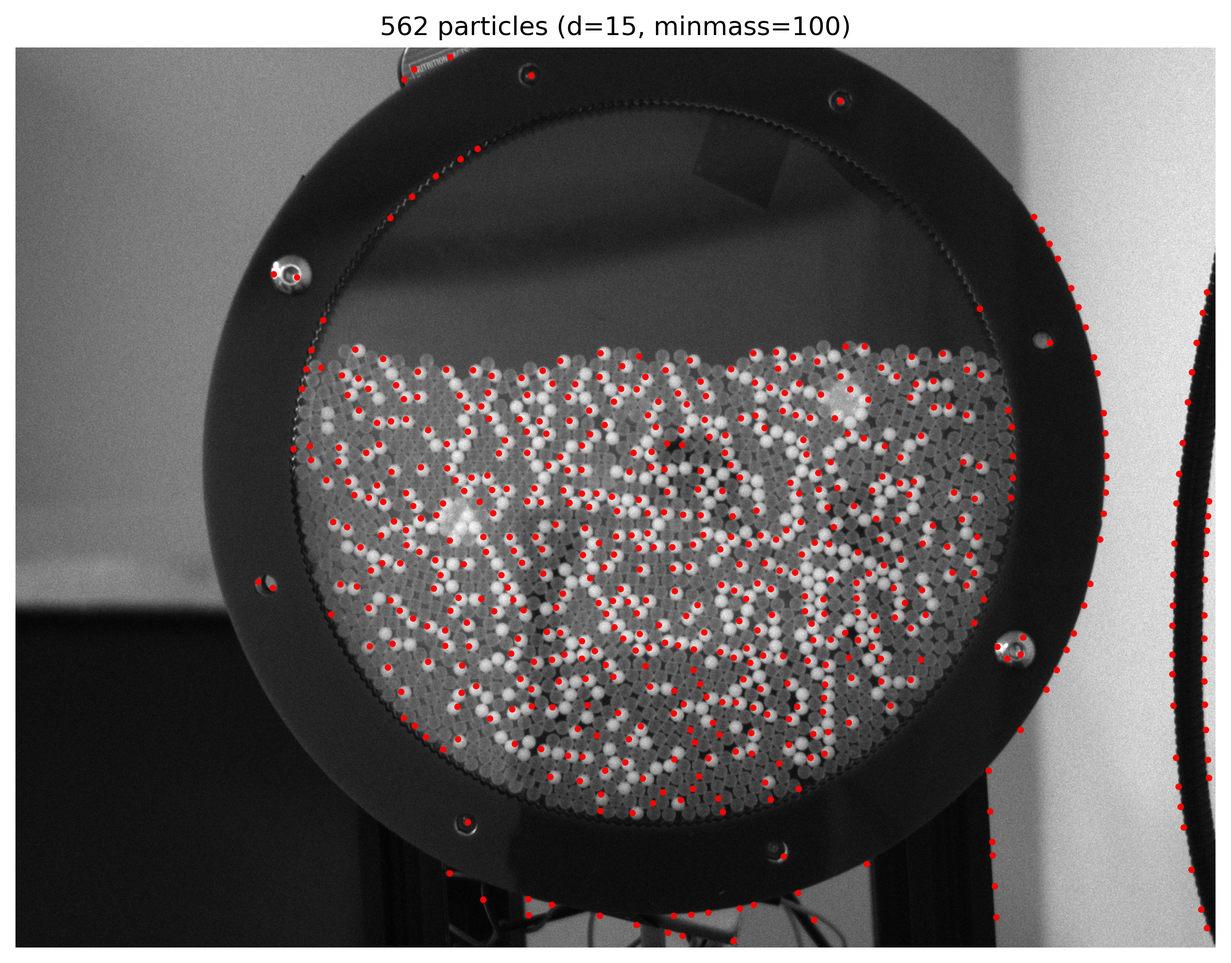
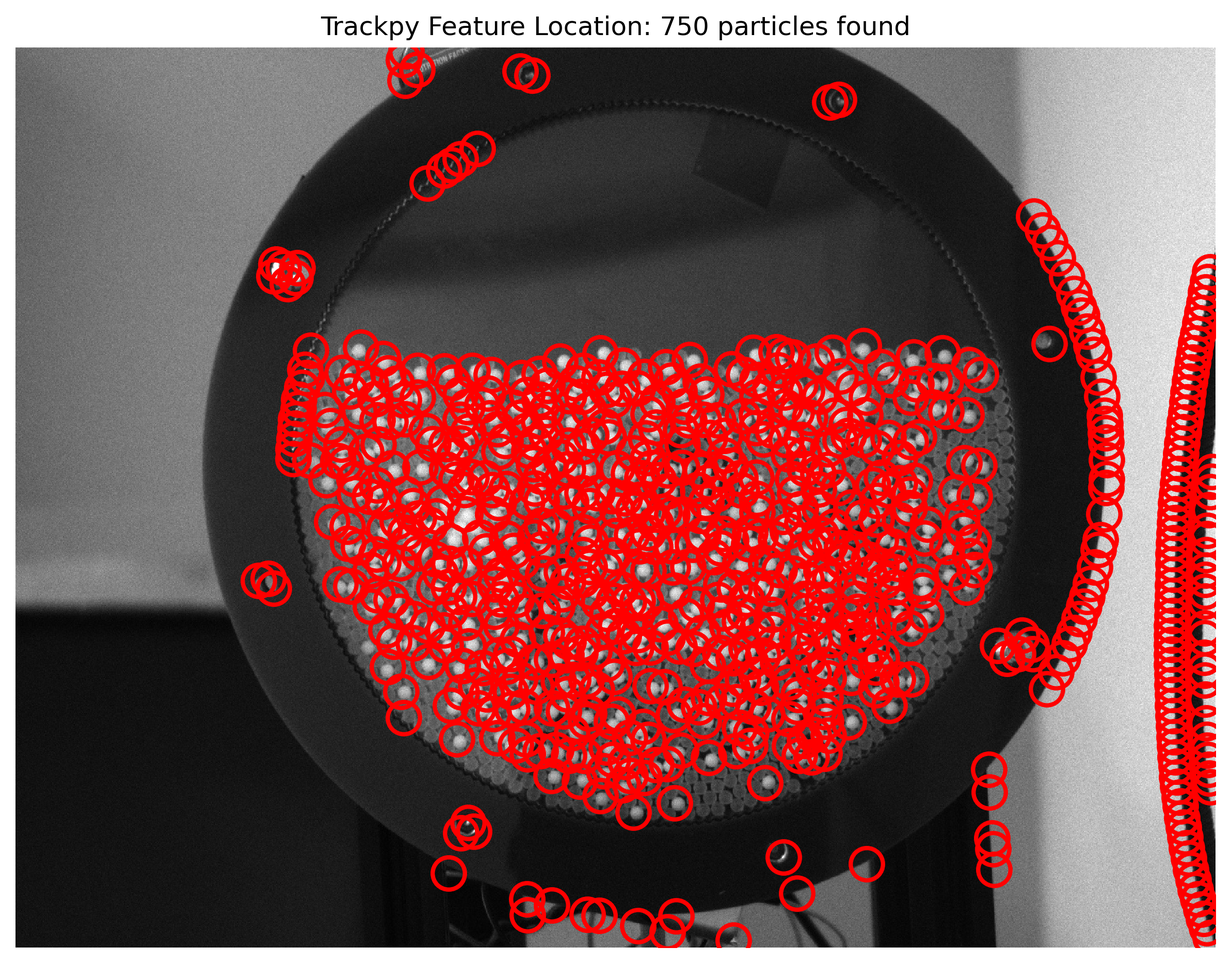
changed main.py a bit

diff --git a/main.py b/main.py
@@ -1,90 +1,114 @@
+#!/usr/bin/env python3
+"""
+Single-image TrackPy ROI selector + particle detector.
+- First run: asks user to click center & edge to define ROI.
+- Saves ROI to 'roi.json' for reuse.
+- Later runs: automatically loads ROI and applies same circular mask.
+"""
+
 import numpy as np
 import pandas as pd
 import pims
 import trackpy as tp
 import matplotlib.pyplot as plt
-import os
-import sys
+from matplotlib.patches import Circle
+import os, sys, json
 
-# --- Configuration ---
-# NOTE: The user's uploaded file name is used here.
+# --- Config ---
 IMAGE_FILENAME = "1758927055861_frame_000000.jpg"
-# Estimated particle diameter in pixels (must be an ODD integer)
-ESTIMATED_DIAMETER = 15
-# Change to minmass (no underscore) for compatibility.
-# Decrease this to find dimmer features; increase to be more selective.
-MIN_MASS_CUTOFF = 50 
+ROI_FILE = "roi.json"
+ESTIMATED_DIAMETER = 9
+MIN_MASS_CUTOFF = 500
 # ---------------------
 
+def load_or_create_roi(frame):
+    """Load ROI from file, or ask user to define one."""
+    if os.path.exists(ROI_FILE):
+        try:
+            with open(ROI_FILE, "r") as f:
+                data = json.load(f)
+                if all(k in data for k in ["cx", "cy", "r"]):
+                    print(f"[ROI] Loaded existing ROI from {ROI_FILE}")
+                    return data["cx"], data["cy"], data["r"]
+        except Exception:
+            pass
+
+    # --- Ask user to define new ROI ---
+    print("\n--- Define Circular ROI (2 Clicks) ---")
+    print("Click 1: Center (crosshatch shows)")
+    print("Click 2: Edge (defines radius)")
+
+    fig, ax = plt.subplots(figsize=(10, 8))
+    ax.imshow(frame, cmap='gray')
+    ax.set_title("Click 1: Center, then Click 2: Edge (to define radius)")
+
+    clicks = plt.ginput(n=2, timeout=60, show_clicks=True)
+    plt.close(fig)
+
+    if len(clicks) < 2:
+        print("[ROI] No valid clicks — using full image.")
+        return None
+
+    (x_c, y_c), (x_e, y_e) = clicks
+    r = np.sqrt((x_e - x_c)**2 + (y_e - y_c)**2)
+    roi = {"cx": int(x_c), "cy": int(y_c), "r": float(r)}
+
+    with open(ROI_FILE, "w") as f:
+        json.dump(roi, f, indent=2)
+    print(f"[ROI] Saved to {ROI_FILE}")
+
+    return roi["cx"], roi["cy"], roi["r"]
+
+
+def apply_circular_mask(frame, cx, cy, r):
+    """Zeroes out pixels outside a circular ROI."""
+    Y, X = np.ogrid[:frame.shape[0], :frame.shape[1]]
+    mask = (X - cx)**2 + (Y - cy)**2 > r**2
+    masked = frame.copy()
+    masked[mask] = 0
+    return masked
+
+
 def run_trackpy_location():
-    """
-    Loads a single image, locates the particles using trackpy, and plots the results.
-    """
     if not os.path.exists(IMAGE_FILENAME):
-        print(f"Error: The image file '{IMAGE_FILENAME}' was not found.")
-        print("Please ensure the file is in the same directory as this script.")
-        # If the script is run in an environment without the image, we can't proceed.
+        print(f"[!] Image not found: {IMAGE_FILENAME}")
         return
-        
-    print(f"Loading image: {IMAGE_FILENAME}")
-    try:
-        # pims.open() is the standard way to load image/video data for trackpy
-        frames = pims.open(IMAGE_FILENAME)
-        
-        # Check if the load was successful and we got at least one frame
-        if not frames:
-            print("Error: Could not load frames from the file.")
-            return
 
-        # We are only using the first (and only) frame
-        frame = frames[0]
+    frame = pims.open(IMAGE_FILENAME)[0]
+    if frame.ndim == 3:
+        frame = np.mean(frame, axis=2).astype(frame.dtype)
 
-        # Convert to grayscale if it's not already (trackpy works best on grayscale)
-        if frame.ndim == 3:
-            # Simple conversion to grayscale (average of RGB channels)
-            frame = np.mean(frame, axis=2).astype(frame.dtype)
-        
-        print(f"Locating features with diameter={ESTIMATED_DIAMETER} and minmass={MIN_MASS_CUTOFF}...")
-        
-        # 1. Feature Finding (Locate)
-        # FIX: Changed 'min_mass' to 'minmass' for older trackpy version compatibility.
-        f = tp.locate(frame, ESTIMATED_DIAMETER, minmass=MIN_MASS_CUTOFF)
-        
-        print(f"\nFound {len(f)} particles.")
-        
-        # 2. Display Results
-        
-        # Create a figure and axis for plotting
-        fig, ax = plt.subplots(figsize=(10, 8))
-        
-        # Plot the original image
-        ax.imshow(frame, cmap='gray')
-        
-        # Overlay the located features as yellow circles
-        # FIX: Changed deprecated 'tp.plot_spots' to 'tp.annotate'.
-        # tp.annotate is the modern and robust way to draw features onto the image.
-        tp.annotate(f, frame, ax=ax)
+    roi_data = load_or_create_roi(frame)
+    if roi_data is None:
+        process_frame = frame
+        cx = cy = r = None
+    else:
+        cx, cy, r = roi_data
+        process_frame = apply_circular_mask(frame, cx, cy, r)
 
-        # Set plot title and hide axes ticks for clarity
-        ax.set_title(f"Trackpy Feature Location: {len(f)} particles found")
-        ax.axis('off')
+    print(f"[tp] Running locate() with diameter={ESTIMATED_DIAMETER}, minmass={MIN_MASS_CUTOFF}")
+    f = tp.locate(process_frame, ESTIMATED_DIAMETER, minmass=MIN_MASS_CUTOFF)
 
-        # Save and show the plot
-        output_filename = "located_particles.png"
-        plt.savefig(output_filename, bbox_inches='tight', dpi=300)
-        print(f"Results saved to '{output_filename}'")
-        plt.show()
-        
-        # Display the first few rows of the feature dataframe
-        print("\n--- Feature Data Head ---")
+    print(f"[tp] Found {len(f)} particles.")
+    if len(f) > 0:
         print(f[['x', 'y', 'mass', 'size', 'ecc']].head())
 
-    except Exception as e:
-        print(f"An error occurred during processing: {e}")
-        # Print a helpful message for common library issues
-        if "No module named" in str(e):
-            print("\nPlease ensure you have installed the required libraries:")
-            print("pip install trackpy pims matplotlib pandas numpy")
-        
-if __name__ == '__main__':
+    # --- Plot results ---
+    fig, ax = plt.subplots(figsize=(10, 8))
+    ax.imshow(process_frame, cmap='gray')
+
+    if roi_data:
+        circle = Circle((cx, cy), r, edgecolor='yellow', facecolor='none', linewidth=2)
+        ax.add_patch(circle)
+
+    if len(f) > 0:
+        ax.scatter(f['x'], f['y'], s=10, c='r', marker='o')
+
+    ax.set_title(f"Detected particles ({len(f)} found)")
+    plt.savefig("located_particles_clean_output.png", bbox_inches='tight', dpi=300)
+    print("[i] Saved output image to located_particles_clean_output.png")
+    plt.show()
+
+
+if __name__ == "__main__":
     run_trackpy_location()
